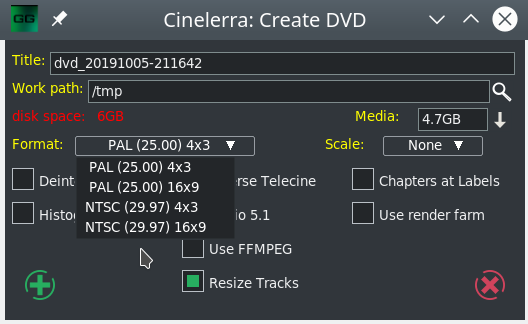
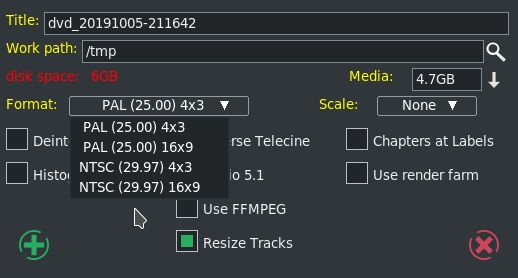
Andrea re-created images

diff --git a/parts/DVD.tex b/parts/DVD.tex
@@ -171,7 +171,7 @@ Figure~\ref{fig:dvd-batch01} for DVD and Figure~\ref{fig:dvd-batch02} for BD sho
 
 \begin{figure}[htpb]
     \centering
-    \includegraphics[width=0.9\linewidth]{dvd-batch01.png}
+    \includegraphics[width=1.0\linewidth]{dvd-batch01.png}
     \caption{Batch render for DVD creation}
     \label{fig:dvd-batch01}
 \end{figure}
@@ -179,7 +179,7 @@ Figure~\ref{fig:dvd-batch01} for DVD and Figure~\ref{fig:dvd-batch02} for BD sho
 % \vspace{-4ex}
 \begin{figure}[htpb]
     \centering
-    \includegraphics[width=0.8\linewidth]{dvd-batch02.png}
+    \includegraphics[width=1.0\linewidth]{dvd-batch02.png}
     \caption{Batch render for BD creation}
     \label{fig:dvd-batch02}
 \end{figure}
@@ -493,7 +493,7 @@ When you are finished, before clicking \textit{Save}, you must supply a legitima
 
 \begin{figure}[htpb]
     \centering
-    \includegraphics[width=0.9\linewidth]{subtitle02.png}
+    \includegraphics[width=1.0\linewidth]{subtitle02.png}
     \caption{Subtitles on timeline}
     \label{fig:subtitle02}
 \end{figure}
@@ -643,7 +643,7 @@ Figure~\ref{fig:dvd-title} demonstrates  an example of setting up a Title menu o
 
 \begin{figure}[htpb]
     \centering
-    \includegraphics[width=0.8\linewidth]{dvd-title.png}
+    \includegraphics[width=0.9\linewidth]{dvd-title.png}
     \caption{Title menu for DVD/BD}
     \label{fig:dvd-title}
 \end{figure}
@@ -676,7 +676,7 @@ Example of Video Source with 4:3 Aspect Ratio, Being Transcribed to 16:9 and Cre
 
 \begin{figure}[htpb]
     \centering
-    \includegraphics[width=1.0\linewidth]{dvd03.png}
+    \includegraphics[width=0.8\linewidth]{dvd03.png}
     \caption{Set Scale Ratio to Cropped}
     \label{fig:dvd03}
 \end{figure}
@@ -703,12 +703,12 @@ Left and right sides of the bottom portion show the Source and the Destination X
 Keep in mind that the monitor you are using is NOT the intended output display device -- your digital TV is, which most likely will have different looking aspect/pixels, etc.
 
 \begin{enumerate}[start=11]
-    \item In order to \textit{crop} the bottom of the video in order to preserve all of the image on the top, modify the Src Y value on the bottom of  the left hand side in the Scale Ratio plugin.  Src Y which was $21$ has now been changed to $-18$.  You will see in the Compositor window how the bottom dark colored border is now gone so that none of the top portion which contains a person's head will be chopped off. Compare figure~\ref{fig:dvd04} to figure~\ref{fig:dvd03} and note the blue legs can be now seen to the waist.
+    \item In order to \textit{crop} the bottom of the video in order to preserve all of the image on the top, modify the Src Y value on the bottom of  the left hand side in the Scale Ratio plugin.  Src Y which was $21$ has now been changed to $-18$.  You will see in the Compositor window how the bottom dark colored border is now gone so that none of the top portion which contains the Bunny's head will be chopped off. Compare figure~\ref{fig:dvd04} to figure~\ref{fig:dvd03} and note the Bunny's head.
 \end{enumerate}
 
 \begin{figure}[htpb]
     \centering
-    \includegraphics[width=1.0\linewidth]{dvd04.png}
+    \includegraphics[width=0.8\linewidth]{dvd04.png}
     \caption{Better scale on compositor}
     \label{fig:dvd04}
 \end{figure}
@@ -720,7 +720,7 @@ Keep in mind that the monitor you are using is NOT the intended output display d
 
 \begin{figure}[htpb]
     \centering
-    \includegraphics[width=0.9\linewidth]{dvd-batch05.png}
+    \includegraphics[width=1.0\linewidth]{dvd-batch05.png}
     \caption{Error in Batch Render}
     \label{fig:dvd-batch05}
 \end{figure}

diff --git a/parts/Recording.tex b/parts/Recording.tex
@@ -160,7 +160,7 @@ One other noted new feature is a new choice for recording -  \texttt{V4L2 MPEG}.
 \begin{figure}[htpb]
     \centering
     \includegraphics[width=0.8\linewidth]{recording02.png}
-    \caption{new feature v4l2 mpeg}
+    \caption{new feature V4L2 mpeg}
     \label{fig:recording02}
 \end{figure}
 
@@ -648,7 +648,7 @@ command line from a window of \\
 
 \begin{figure}[htpb]
     \centering
-    \includegraphics[width=0.9\linewidth]{vhs01.png}
+    \includegraphics[width=1.0\linewidth]{vhs01.png}
     \caption{Example of the Recording, Video In, and Channels, along with the Add option, menus.}
     \label{fig:vhs01}
 \end{figure}
@@ -664,7 +664,7 @@ There are many more parameters that you may want to vary in the Recording menu o
 
 \begin{figure}[htpb]
     \centering
-    \includegraphics[width=0.9\linewidth]{vhs02.png}
+    \includegraphics[width=1.0\linewidth]{vhs02.png}
     \caption{Recording menu and Video In screen while capturing media.  Note the Transport stop option.}
     \label{fig:vhs02}
 \end{figure}
